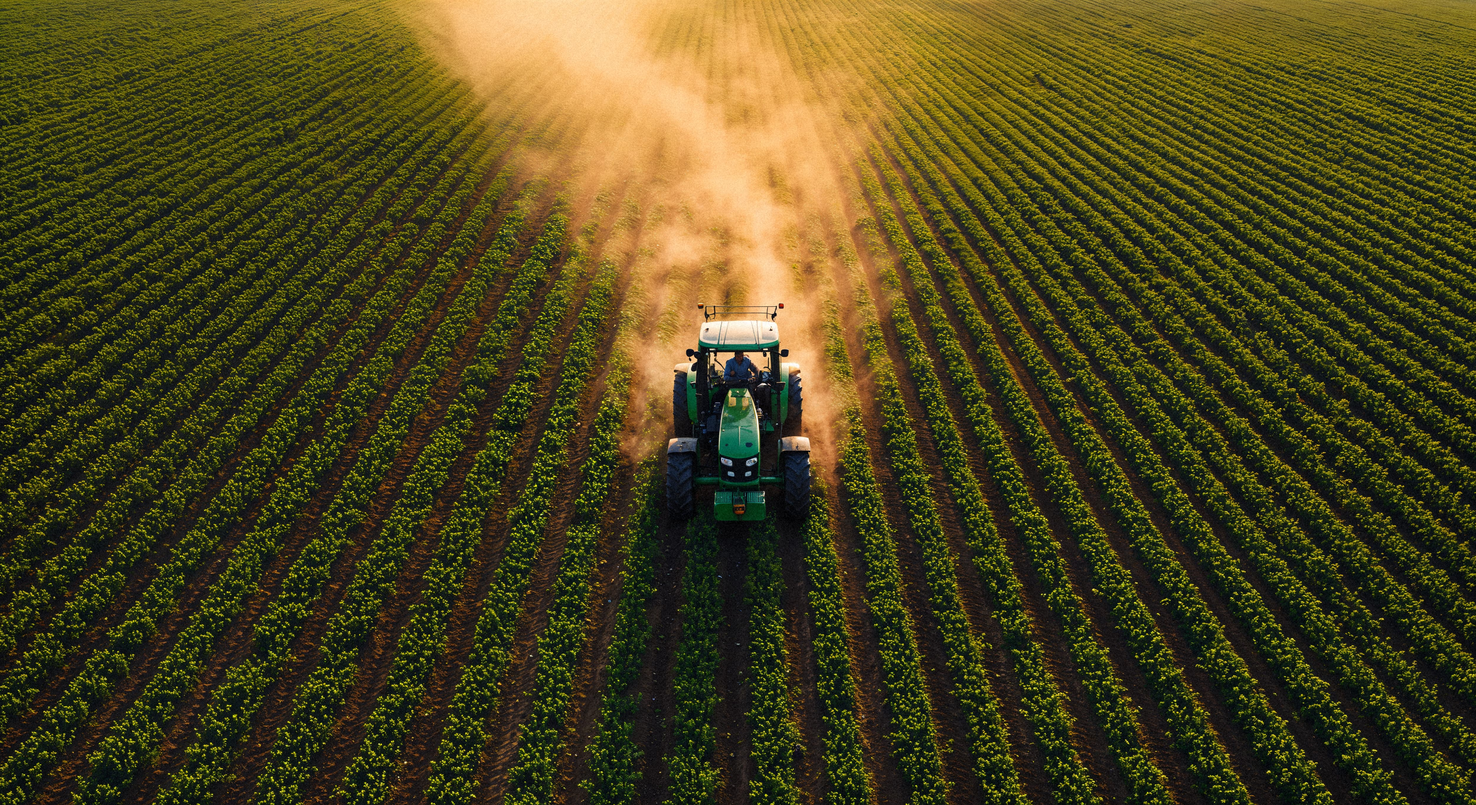
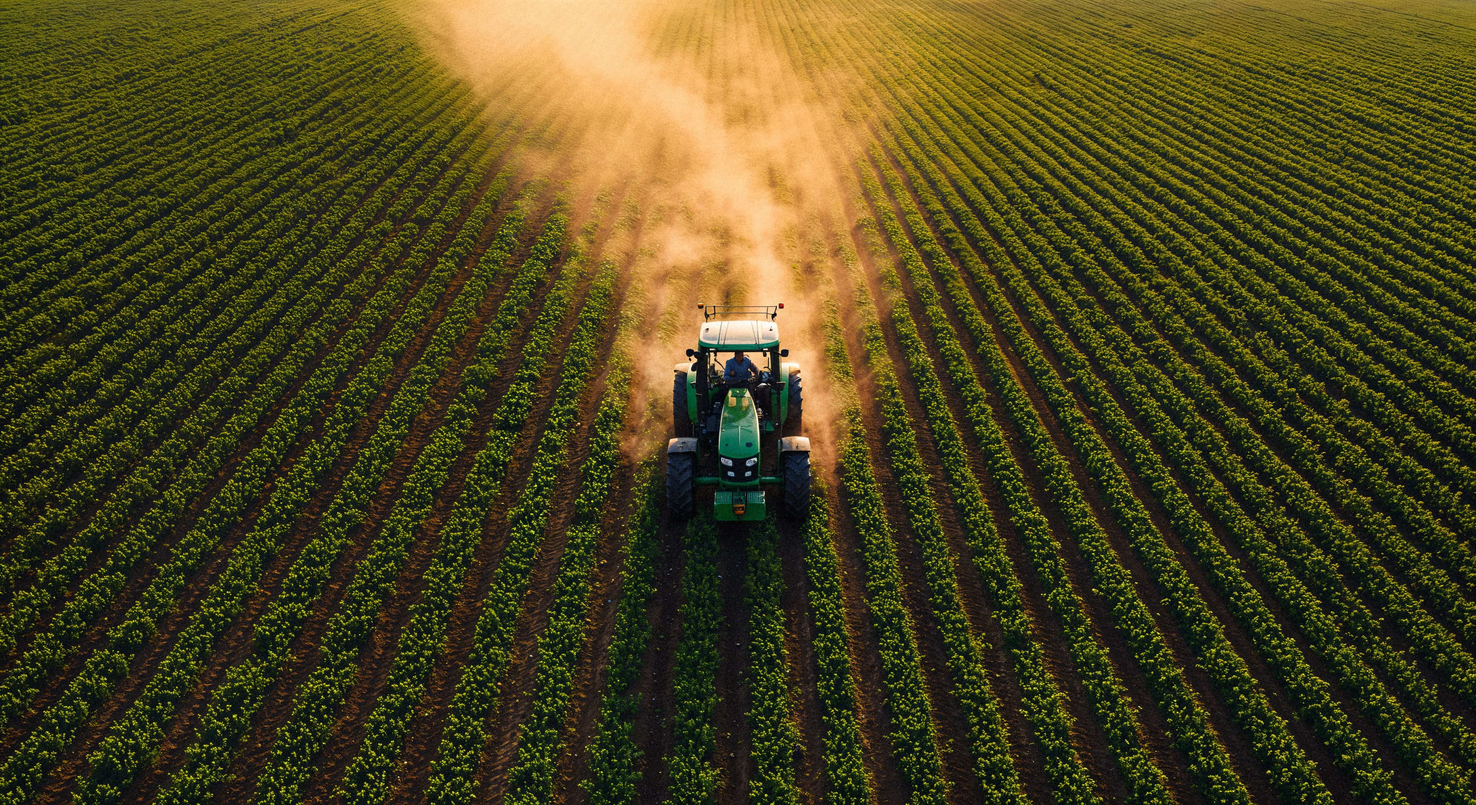
Se agrego nuevo seccion para drones en agro

diff --git a/components/agro/agro-content-sections.tsx b/components/agro/agro-content-sections.tsx
@@ -3,7 +3,7 @@
 import React from "react"
 import Image from "next/image"
 import Link from "next/link"
-import { ArrowRight, BarChart3, Leaf, ShieldCheck, Tractor } from "lucide-react"
+import { ArrowRight, BarChart3, Eye, Leaf, Map, ScanLine, ShieldCheck, Tractor } from "lucide-react"
 import { Button } from "@/components/ui/button"
 import { agroTheme } from "./theme"
 
@@ -289,6 +289,21 @@ export function AgroContentSections() {
         backgroundColor={agroTheme.dark}
         textColor={agroTheme.cream}
         iconColor={agroTheme.oliveMuted}
+      />
+
+      <AgroSplitSection
+        eyebrow="Análisis con drones"
+        title="Visión aérea para decisiones más precisas"
+        description="Cobertura total del lote con drones y procesamiento de datos para detectar problemas antes de que impacten el rendimiento."
+        bullets={[
+          { icon: ScanLine, text: "Análisis multiespectral con índices NDVI: vigor, salud y uniformidad del cultivo." },
+          { icon: Map, text: "Monitoreo de grandes extensiones con detección rápida de zonas críticas." },
+          { icon: Eye, text: "Control del estado: estrés hídrico, nutrientes, enfermedades y plagas." },
+        ]}
+        imageSrc="/agroImage7.jpg"
+        imageAlt="Drone agrícola sobrevolando cultivos para análisis multiespectral"
+        imageWidth={3000}
+        imageHeight={2000}
       />
 
       <AgroCtaSection />

diff --git a/components/agro/agro-hero-section.tsx b/components/agro/agro-hero-section.tsx
@@ -73,7 +73,7 @@ export function AgroHeroSection() {
       {/* Right — full-bleed image */}
       <div className="relative w-full lg:w-1/2 min-h-[45vh] sm:min-h-[50vh] lg:min-h-screen flex-1 lg:flex-none">
         <Image
-          src="/agroImage.png"
+          src="/agroImage.jpg"
           alt="Campo agrícola al atardecer"
           fill
           className="object-cover object-center lg:object-center"
